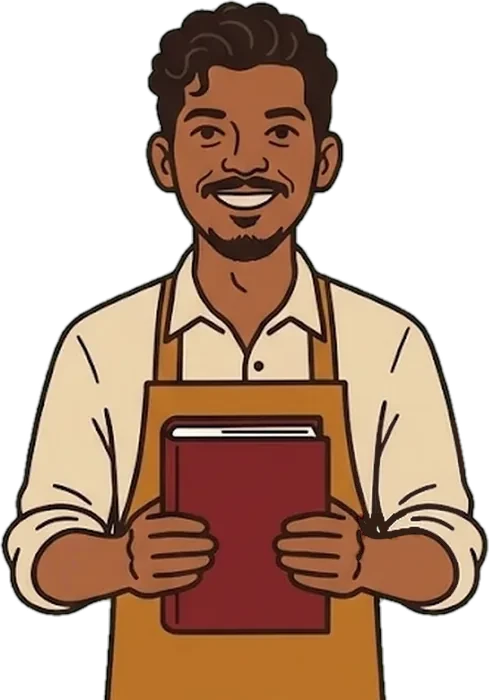
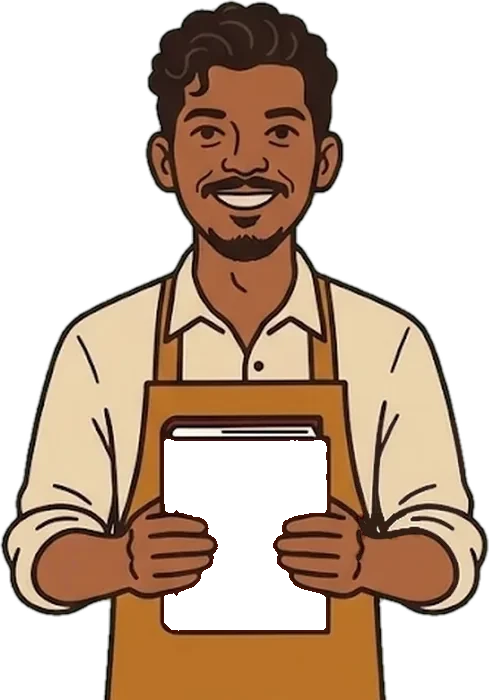
Book covers from each LinkedIn post's own picture, same cover in his hands, on the counter and when opened; add the biscuit post
Claude-Session: https://claude.ai/code/session_01M7PDTuVyJJ1kuWZYfUFzFc

Changed region(s): [[0.3374, 0.63, 0.6748, 0.9]]

diff --git a/js/data.js b/js/data.js
@@ -327,12 +327,23 @@ window.CAFE = {
 
   /* ---------- The bookshelf: my own writing ----------
      Add a post: copy one block, paste the link from LinkedIn (⋯ → Copy link to post).
-     motif (cover drawing): mithai | journey | fridge | waves */
+     cover: the post's own picture, cropped square, in assets/covers/ (coverTitle: up to two short lines under it)
+     motif (cover drawing, used when there is no cover picture): mithai | journey | fridge | waves */
   writing: [
+    {
+      title: "Who owns the jar on the counter?",
+      kicker: "₹5 biscuits, shopkeeper margins and the habit of a nation",
+      date: "Nov 2026", platform: "LinkedIn", color: "#8A5A2B", motif: "waves",
+      cover: "assets/covers/biscuit.webp", coverTitle: ["The jar on", "the counter"],
+      url: "https://www.linkedin.com/feed/update/urn:li:activity:7525938382292590592/",
+      excerpt: ["Most of us just take whatever is in the jar on the counter. So if the shopkeeper earns 25 to 50 paise more on every ₹5 pack from one brand, which jar do you think he'll keep in front?", "That's the real game. Win the shopkeeper first. Build the habit later."],
+      summary: "A new biscuit entrant isn't trying to win on price: it is paying shopkeepers a bigger margin. At a chai tapri nobody asks for a brand, so the jar in front wins. But decades of habit don't break on margins alone.",
+    },
     {
       title: "Mithai, meet the machine",
       kicker: "What India's festive sweet rush can learn from European packing lines",
       date: "Nov 2026", platform: "LinkedIn", color: "#7A2E2E", motif: "mithai",
+      cover: "assets/covers/mithai.webp", coverTitle: ["Mithai, meet", "the machine"],
       url: "https://www.linkedin.com/feed/update/urn:li:activity:7525168368354549760/",
       excerpt: ["To meet Diwali demand, these companies produce a huge part of their year's volume in just a few weeks. And in most plants, a lot of it is still packed by hand.", "The interesting part is the recipe never changed. The taste never changed. Only the packing did."],
       summary: "My first Diwali in Pune: long queues at the sweet shops, and on the other side of the counter, festive volumes still packed by hand. European confectioners solved the same peak with robotic lines. The recipe never changed, only the packing did.",
@@ -341,6 +352,7 @@ window.CAFE = {
       title: "From the sea to the mountains",
       kicker: "Port Blair, Karaikal, Jammu, Pune",
       date: "Nov 2026", platform: "LinkedIn", color: "#14354A", motif: "journey",
+      cover: "assets/covers/journey.webp", coverTitle: ["From the sea", "to the mountains"],
       url: "https://www.linkedin.com/feed/update/urn:li:activity:7522745172477255680/",
       excerpt: ["I grew up in Port Blair, in the Andaman and Nicobar Islands. Life on the islands is beautiful, and it has a pattern. I just felt a pull to see what was outside that loop.", "Confidence isn't something you're born with. You build it, one uncomfortable step at a time."],
       summary: "Why I left the calm island loop, what engineering and the MBA taught me, and how the quiet boy from Port Blair ended up talking to European companies every week. Confidence is built one uncomfortable step at a time.",
@@ -349,6 +361,7 @@ window.CAFE = {
       title: "The 'kuch bhi bana do' fridge",
       kicker: "A product idea for Indian kitchens",
       date: "Sep 2025", platform: "LinkedIn", color: "#B07A1E", motif: "fridge",
+      cover: "assets/covers/fridge.webp", coverTitle: ["Kuch bhi", "bana do"],
       url: "https://www.linkedin.com/feed/update/urn:li:activity:7371494865907445760/",
       excerpt: ["Introducing our Smart Refrigerator with AI-powered Vegetable Shuffler, transforming the daily \"Kuch bhi bana do\" dilemma into effortless meal planning.", "Freshness tracking, recipe suggestions and smart inventory management, all designed for Indian families."],
       summary: "A campus product concept: a smart refrigerator that tracks freshness and suggests what to cook, built around the everyday Indian question of what to make tonight.",

diff --git a/js/art.js b/js/art.js
@@ -166,17 +166,28 @@ window.ART = (function () {
     waves: `<path d="M14,110 q12,-8 24,0 t24,0 t24,0 t24,0" stroke="#E8DCC4" stroke-width="4" fill="none"/>`,
   };
   function bookCover(b) {
+    /* with a cover picture (the post's own image): picture on top, short title underneath */
+    const words = (b.coverTitle || []).map((t, i) => `<tspan x="64" dy="${i ? 11 : 0}">${t.replace(/[&<>]/g, "")}</tspan>`).join("");
+    const art = b.cover
+      ? `<rect x="16" y="14" width="96" height="96" rx="2" fill="#000" opacity=".25"/>
+         <image href="${b.cover}" x="16" y="14" width="96" height="96" preserveAspectRatio="xMidYMid slice"/>
+         <rect x="16" y="14" width="96" height="96" rx="2" fill="none" stroke="#E8C48A" stroke-width="1.5"/>
+         <text x="64" y="126" text-anchor="middle" font-family="Georgia, serif" font-size="10" fill="#FBF3DF">${words}</text>`
+      : motifs[b.motif] || motifs.waves;
     return `<svg viewBox="0 0 120 170" aria-hidden="true">
       <rect width="120" height="170" rx="4" fill="${b.color}"/>
       <rect x="0" y="0" width="10" height="170" fill="#000" opacity=".22"/>
-      <rect x="16" y="12" width="96" height="146" rx="2" fill="none" stroke="#E8C48A" stroke-width="1.5" opacity=".75"/>
-      ${motifs[b.motif] || motifs.waves}
-      <text x="64" y="150" text-anchor="middle" font-family="Mukta, sans-serif" font-size="9" letter-spacing="1.5" fill="#E8C48A">${b.platform.toUpperCase()}</text>
+      <rect x="16" y="${b.cover ? 8 : 12}" width="96" height="${b.cover ? 154 : 146}" rx="2" fill="none" stroke="#E8C48A" stroke-width="1.5" opacity="${b.cover ? 0 : 0.75}"/>
+      ${art}
+      <text x="64" y="${b.cover ? 158 : 150}" text-anchor="middle" font-family="Mukta, sans-serif" font-size="8" letter-spacing="1.5" fill="#E8C48A">${b.platform.toUpperCase()}</text>
     </svg>`;
   }
 
   /* a book standing on the counter (for serving), cover facing the visitor */
-  items.book = (o = {}) => `${shadow(30)}
+  items.book = (o = {}) => o.platform ? `${shadow(30)}
+      <rect x="32" y="22" width="62" height="88" rx="3" fill="#FBF7EE" ${ol()}/>
+      <svg x="27" y="19" width="62" height="88" viewBox="0 0 120 170" preserveAspectRatio="none">${bookCover(o).replace(/^<svg[^>]*>|<\/svg>\s*$/g, "")}</svg>
+      <rect x="27" y="19" width="62" height="88" rx="3" fill="none" ${ol()}/>` : `${shadow(30)}
       <rect x="32" y="22" width="62" height="88" rx="3" fill="#FBF7EE" ${ol()}/>
       <rect x="27" y="19" width="62" height="88" rx="3" fill="${o.color || C.bottle}" ${ol()}/>
       <path d="M35,21 L35,105" stroke="${INK}" stroke-width="2" opacity=".45"/>

diff --git a/js/scene.js b/js/scene.js
@@ -322,6 +322,12 @@
             <path d="M${bx - 18},508 h40 M${bx - 10},520 h24" stroke="#FBF7EE" stroke-opacity=".85" stroke-width="3" stroke-linecap="round"/>`;
           barista.after(tag);                   // just in front of him, still behind the counter
         }
+        if (give === "book" && it.platform) {     // the book in his hands wears this post's own cover
+          const first = barista.querySelector(".pose");
+          tag = document.createElementNS(NS, "g");
+          tag.innerHTML = `<svg x="-52" y="451" width="108" height="126" viewBox="0 0 120 170" preserveAspectRatio="none">${A.bookCover(it).replace(/^<svg[^>]*>|<\/svg>\s*$/g, "")}</svg>`;
+          first.parentNode.insertBefore(tag, first); // behind his fingers
+        }
         await wait(1300);
         tag?.remove();
         pose("idle");
